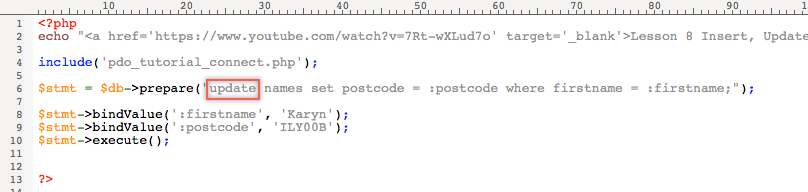
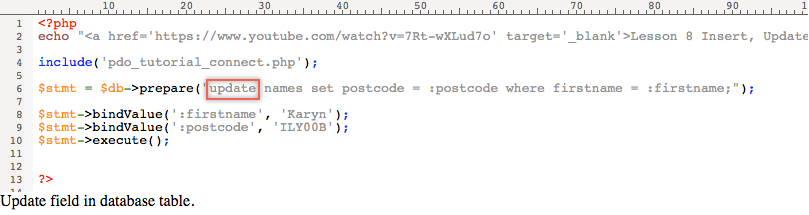
Minor corrections to the files. Added a PHP form example from W3Schools.

Changed region(s): [[0.0, 0.0, 1.0, 1.0]]

diff --git a/php_sandbox/PHP_Form_Example.php b/php_sandbox/PHP_Form_Example.php
@@ -1,0 +1,134 @@
+<!DOCTYPE HTML>
+<html>
+<head>
+<title>PHP Form Validation Example</title>
+<style>
+.error {color: #FF0000;}
+</style>
+</head>
+<body>
+<p>
+<a href='http://www.w3schools.com/php/php_form_complete.asp'>PHP 5 Complete Form Example</a><br />
+This shows how to keep the values in the input fields when the user hits the submit button.<br />
+
+PHP - Keep The Values in The Form<br />
+To show the values in the input fields after the user hits the submit button, <br />
+we add a little PHP script inside the value attribute of the following input fields: <br />
+name, email, and website. In the comment textarea field, we put the script between the <br />
+'textarea' and '/textarea' tags. The little script outputs the value of the $name, <br />
+$email, $website, and $comment variables.<br />
+
+Then, we also need to show which radio button that was checked. <br />
+For this, we must manipulate the checked attribute (not the value attribute for radio buttons):<br />
+<br />
+Name: <input type="text" name="name" value="<?php echo $name;?>">
+<br />
+E-mail: <input type="text" name="email" value="<?php echo $email;?>">
+<br />
+Website: <input type="text" name="website" value="<?php echo $website;?>">
+<br />
+Comment: <textarea name="comment" rows="5" cols="40"><?php echo $comment;?></textarea>
+<br />
+Gender:
+<input type="radio" name="gender"
+<?php if (isset($gender) && $gender=="female") echo "checked";?>
+value="female">Female
+<input type="radio" name="gender"
+<?php if (isset($gender) && $gender=="male") echo "checked";?>
+value="male">Male
+</p>
+
+<?php
+// define variables and set to empty values
+$nameErr = $emailErr = $genderErr = $websiteErr = "";
+$name = $email = $gender = $comment = $website = "";
+
+if ($_SERVER["REQUEST_METHOD"] == "POST") {
+   if (empty($_POST["name"])) {
+     $nameErr = "Name is required";
+   } else {
+     $name = test_input($_POST["name"]);
+     // check if name only contains letters and whitespace
+     if (!preg_match("/^[a-zA-Z ]*$/",$name)) {
+       $nameErr = "Only letters and white space allowed";
+     }
+   }
+
+   if (empty($_POST["email"])) {
+     $emailErr = "Email is required";
+   } else {
+     $email = test_input($_POST["email"]);
+     // check if e-mail address is well-formed
+     if (!filter_var($email, FILTER_VALIDATE_EMAIL)) {
+       $emailErr = "Invalid email format";
+     }
+   }
+
+   if (empty($_POST["website"])) {
+     $website = "";
+   } else {
+     $website = test_input($_POST["website"]);
+     // check if URL address syntax is valid (this regular expression also allows dashes in the URL)
+     if (!preg_match("/\b(?:(?:https?|ftp):\/\/|www\.)[-a-z0-9+&@#\/%?=~_|!:,.;]*[-a-z0-9+&@#\/%=~_|]/i",$website)) {
+       $websiteErr = "Invalid URL";
+     }
+   }
+
+   if (empty($_POST["comment"])) {
+     $comment = "";
+   } else {
+     $comment = test_input($_POST["comment"]);
+   }
+
+   if (empty($_POST["gender"])) {
+     $genderErr = "Gender is required";
+   } else {
+     $gender = test_input($_POST["gender"]);
+   }
+}
+
+function test_input($data) {
+   $data = trim($data);
+   $data = stripslashes($data);
+   $data = htmlspecialchars($data);
+   return $data;
+}
+?>
+
+<h2>PHP Form Validation Example</h2>
+<p><span class="error">* required field.</span></p>
+<form method="post" action="<?php echo htmlspecialchars($_SERVER["PHP_SELF"]);?>">
+   Name: <input type="text" name="name" value="<?php echo $name;?>">
+   <span class="error">* <?php echo $nameErr;?></span>
+   <br><br>
+   E-mail: <input type="text" name="email" value="<?php echo $email;?>">
+   <span class="error">* <?php echo $emailErr;?></span>
+   <br><br>
+   Website: <input type="text" name="website" value="<?php echo $website;?>">
+   <span class="error"><?php echo $websiteErr;?></span>
+   <br><br>
+   Comment: <textarea name="comment" rows="5" cols="40"><?php echo $comment;?></textarea>
+   <br><br>
+   Gender:
+   <input type="radio" name="gender" <?php if (isset($gender) && $gender=="female") echo "checked";?>  value="female">Female
+   <input type="radio" name="gender" <?php if (isset($gender) && $gender=="male") echo "checked";?>  value="male">Male
+   <span class="error">* <?php echo $genderErr;?></span>
+   <br><br>
+   <input type="submit" name="submit" value="Submit">
+</form>
+
+<?php
+echo "<h2>Your Input:</h2>";
+echo $name;
+echo "<br>";
+echo $email;
+echo "<br>";
+echo $website;
+echo "<br>";
+echo $comment;
+echo "<br>";
+echo $gender;
+?>
+
+</body>
+</html>

diff --git a/php_sandbox/pdo_tutorial_insert_update_delete.php b/php_sandbox/pdo_tutorial_insert_update_delete.php
@@ -1,20 +1,15 @@
 <?php
 echo "<a href='https://www.youtube.com/watch?v=7Rt-wXLud7o' target='_blank'>Lesson 8. Insert, update, and delete using Prepared Statements.</a><br /><br />";
-
+echo "<a href='pdo_tutorial_connectA.php' target='_blank'>Home</a><br />";
 include'pdo_tutorial_connect.php';
 
 echo "
 <img src='lesson8_pdo_tutorial_insert.png'/><br /><br />
 <img src='lesson8_pdo_tutorial_insert1.png'/><br /><br />
-<img src='lesson8_pdo_tutorial_insert2.png'/><br />Update field in database table.<br /><br />
-<img src='lesson8_pdo_tutorial_insert3.png'/><br />Delete row from database table.<br /><br />
-<img src='emar_pdo_array_insert1.png'/><br />Insert into database table using array.<br /><br />
+<img src='lesson8_pdo_tutorial_insert2.png'/><br /><br />
+<img src='lesson8_pdo_tutorial_insert3.png'/><br /><br />
+<img src='emar_pdo_array_insert1.png'/><br /><br /><br />
 
 ";
-
-
-
-
-
 
 ?>

diff --git a/php_sandbox/pdo_tutorial_queryA.php b/php_sandbox/pdo_tutorial_queryA.php
@@ -1,6 +1,6 @@
 <?php
 echo "<a href='https://www.youtube.com/watch?v=vqqUGNdRow8' target='_blank'>Lesson2 Youtube Video</a><br />";
-echo "<a href=''>Goto PDO Tutorial Lesson 3</a><br />";
+echo "<a href='pdo_tutorial_insert_update_delete.php'>Goto PDO Tutorial Lessons 3 - 8</a><br />";
 echo "<img src='lesson2_pdo_tutorial_pdo_tutorial_query.png'><br /><br />";
 //echo "<div><a href='" . include('pdo_tutorial_query.php') . "'>Run query</a><br /></div>";
 include('pdo_tutorial_query.php');
